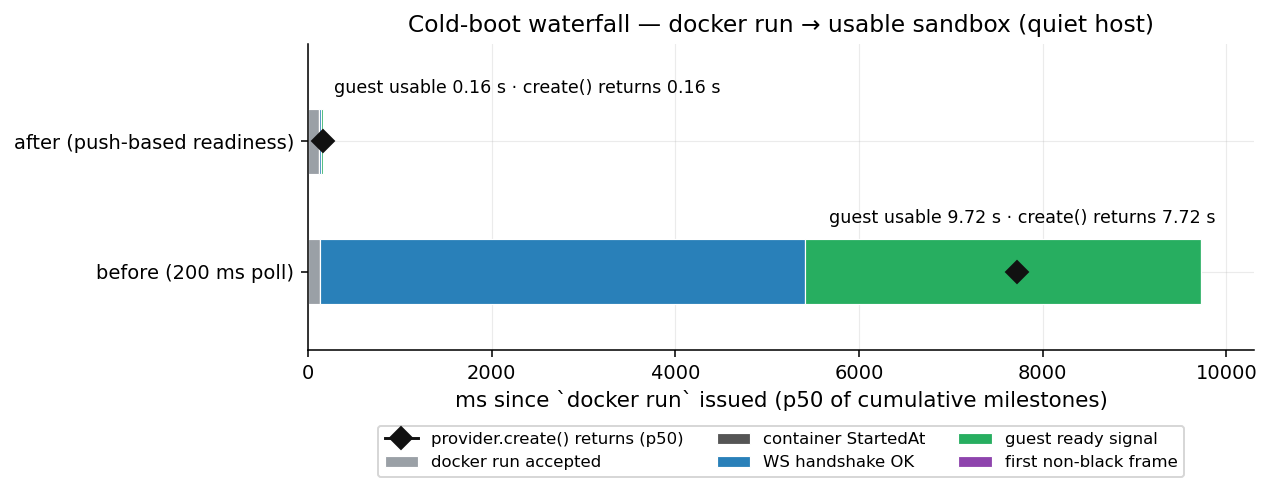
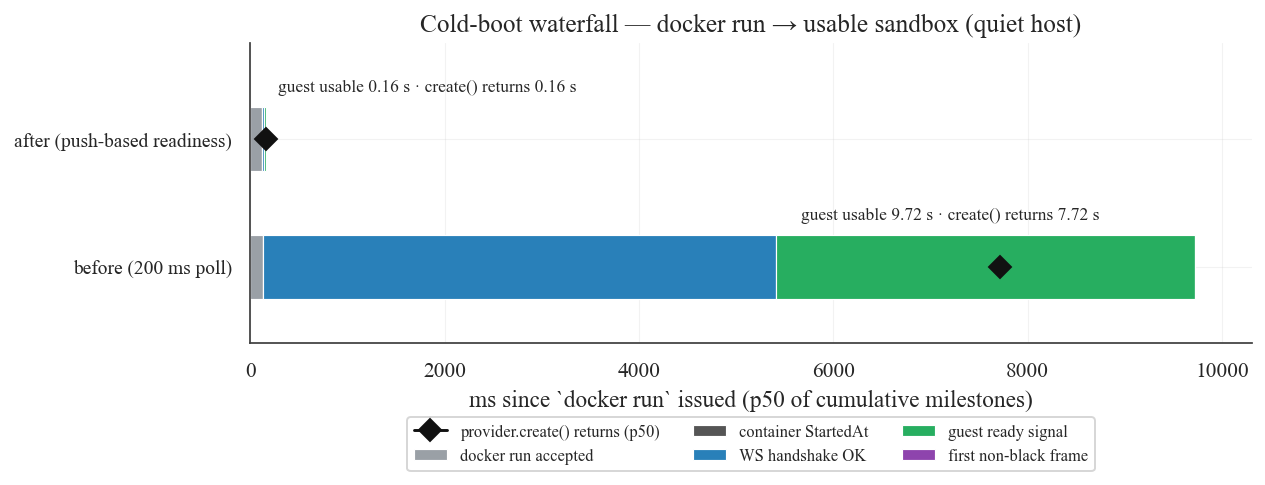
docs+bench: paper-grade figure style (seaborn + Times New Roman/STIX) across all 17 figures; new fork-ladder hero chart for Runtime state; fan-out figure joins the consumption section (#268)
The runtime-state section now opens with a single ladder chart (cold boot
0.20 s -> disk fork 0.60 s -> CRIU memory fork 0.40 s -> warm-pool graft
0.12 s, each rung labeled with the state it carries) instead of the old
cold-vs-fork bars that visually argued against the feature. local_fanout
(the 1..128 scaling curve) is embedded where it belongs — fork-native
consumption. Every figure regenerated from tracked JSONs under the shared
seaborn whitegrid + Times/STIX style.

diff --git a/benchmarks/plot_remote.py b/benchmarks/plot_remote.py
@@ -23,7 +23,7 @@ import json
 from matplotlib.colors import to_rgb
 from matplotlib.ticker import FixedLocator, NullFormatter, NullLocator, ScalarFormatter
 
-from _common import PALETTE, REPO_ROOT, RESULTS_DIR, new_axes, save_plot
+from _common import style, PALETTE, REPO_ROOT, RESULTS_DIR, new_axes, save_plot
 
 REMOTE_DATA = RESULTS_DIR / "remote"
 
@@ -258,8 +258,57 @@ def a11y_coverage():
     save_plot(fig, "a11y_coverage")
 
 
+def fork_ladder():
+    """THE runtime-state figure: time to one USABLE replica of a mid-task state,
+    per tier — each tier's p50 read from its own tracked suite JSON. Carried
+    state grows; latency does not."""
+    import json
+
+    def p50(name, key):
+        return json.loads((RESULTS_DIR / f"{name}.json").read_text())["summary"][key]["p50"]
+
+    rows = [
+        ("cold boot\n(no state)", p50("fork_resume", "cold_boot_total_ms"),
+         "nothing — setup must replay", "0.45"),
+        ("disk fork\n(docker commit)", p50("fork_resume", "fork_total_ms"),
+         "files", PALETTE["jpeg"]),
+        ("memory fork\n(CRIU restore)", p50("fork_resume_memory", "fork_total_ms"),
+         "files + processes + heap", PALETTE["accent"]),
+        ("warm-pool graft", p50("fork_resume_pool", "pool_graft_total_ms"),
+         "files, onto a pre-booted base", PALETTE["delta"]),
+    ]
+    style()
+    import matplotlib.pyplot as plt
+
+    fig, ax = plt.subplots(figsize=(8.6, 4.2))
+    bars = ax.barh([r[0] for r in rows][::-1], [r[1] / 1000.0 for r in rows][::-1],
+                   color=[r[3] for r in rows][::-1], height=0.62)
+    ax.set_xscale("log")
+    ax.set_xticks([0.1, 0.2, 0.5, 1.0])
+    ax.set_xticklabels(["0.1 s", "0.2 s", "0.5 s", "1 s"])
+    ax.set_xlim(0.08, 1.45)
+    for bar, (_label, ms, carried, _c) in zip(bars, rows[::-1]):
+        ax.text(bar.get_width() * 1.07, bar.get_y() + bar.get_height() / 2,
+                f"{ms / 1000:.2f} s", va="center", fontweight="bold", fontsize=12)
+        if bar.get_width() >= 0.35:  # room inside the bar
+            ax.text(0.082, bar.get_y() + bar.get_height() / 2,
+                    f"carries: {carried}", va="center", ha="left", fontsize=10,
+                    style="italic", color="white")
+        else:  # short bar: annotate to the right of the value label
+            ax.text(bar.get_width() * 1.45, bar.get_y() + bar.get_height() / 2,
+                    f"carries: {carried}", va="center", ha="left", fontsize=10,
+                    style="italic", color="0.35")
+    ax.set_xlabel("time to a usable replica of a mid-task state (p50, log scale)")
+    ax.set_title("The fork ladder — every rung state-verified, the donor stays live")
+    ax.text(0.99, 0.03,
+            "checkpointing the LIVE sandbox: 0.53 s (disk) / 0.70 s (memory, donor keeps running)",
+            transform=ax.transAxes, ha="right", va="bottom", fontsize=10, color="0.35")
+    save_plot(fig, "fork_ladder")
+
+
 if __name__ == "__main__":
     remote_codec_ladder()
+    fork_ladder()
     bandwidth_bars()
     aggregate_projection()
     a11y_coverage()

diff --git a/benchmarks/_common.py b/benchmarks/_common.py
@@ -464,29 +464,36 @@ def write_result(suite: str, payload: dict[str, Any]) -> Path:
 
 def style() -> None:
     """Apply the one shared matplotlib style (Agg, no display). Idempotent; called
-    by ``new_axes`` and importable by any plotting script outside this package."""
+    by ``new_axes`` and importable by any plotting script outside this package.
+    Paper aesthetic: seaborn whitegrid + Times New Roman with STIX math."""
     import matplotlib
 
     matplotlib.use("Agg")
     import matplotlib.pyplot as plt
+    import seaborn as sns
 
+    sns.set_theme(context="notebook", style="whitegrid")
     plt.rcParams.update(
         {
             "figure.dpi": 140,
-            "font.size": 11,
-            "axes.titlesize": 12,
-            "axes.labelsize": 11,
-            "legend.fontsize": 9,
-            "xtick.labelsize": 10,
-            "ytick.labelsize": 10,
+            "font.family": "serif",
+            "font.serif": ["Times New Roman", "STIXGeneral", "DejaVu Serif"],
+            "mathtext.fontset": "stix",
+            "font.size": 12,
+            "axes.titlesize": 13,
+            "axes.labelsize": 12,
+            "legend.fontsize": 10,
+            "xtick.labelsize": 11,
+            "ytick.labelsize": 11,
             "axes.grid": True,
-            "grid.alpha": 0.25,
+            "grid.alpha": 0.35,
             "grid.linewidth": 0.6,
             "axes.spines.top": False,
             "axes.spines.right": False,
+            "axes.edgecolor": "0.25",
+            "axes.linewidth": 0.9,
         }
     )
-
 
 def new_axes(ncols: int = 1, *, height: float = 4.2, width: float = 6.4, nrows: int = 1):
     """Consistent matplotlib axes for every suite figure."""

diff --git a/README.md b/README.md
@@ -169,7 +169,7 @@ replica by an in-memory marker no files-only mechanism can fake (privileged cont
 necessity: a latency/state-fidelity tier, not an isolation posture). Cold boot → usable is
 ~0.2 s after push-based readiness.
 
-<p align="center"><img src="docs/assets/bench/fork_resume.png" width="820"></p>
+<p align="center"><img src="docs/assets/bench/fork_ladder.png" width="820"></p>
 
 **2 — Fork-native consumption: what the ladder buys when loops run on it.** The gym facade's
 `reset()` *is* a fork: task setup runs once into a golden checkpoint and every episode forks a
@@ -181,6 +181,8 @@ real: one process drives **128 real Docker desktops** (128/128 booted in 7.3 s, 
 amortized per replica, observe-all at 142 ms p50, 2 OS threads), and the client plane alone
 holds **1,024 live ACI sessions on one event-loop thread** (~884 Mbps sustained decoded
 ingest; protocol-faithful synthetic peers).
+
+<p align="center"><img src="docs/assets/bench/local_fanout.png" width="820"></p>
 
 **3 — Fleet observation dedup: the fork dividend.** Replicas forked from one checkpoint render
 identical pixels *by construction*, so content-negotiated observation (`if_none_match` against
